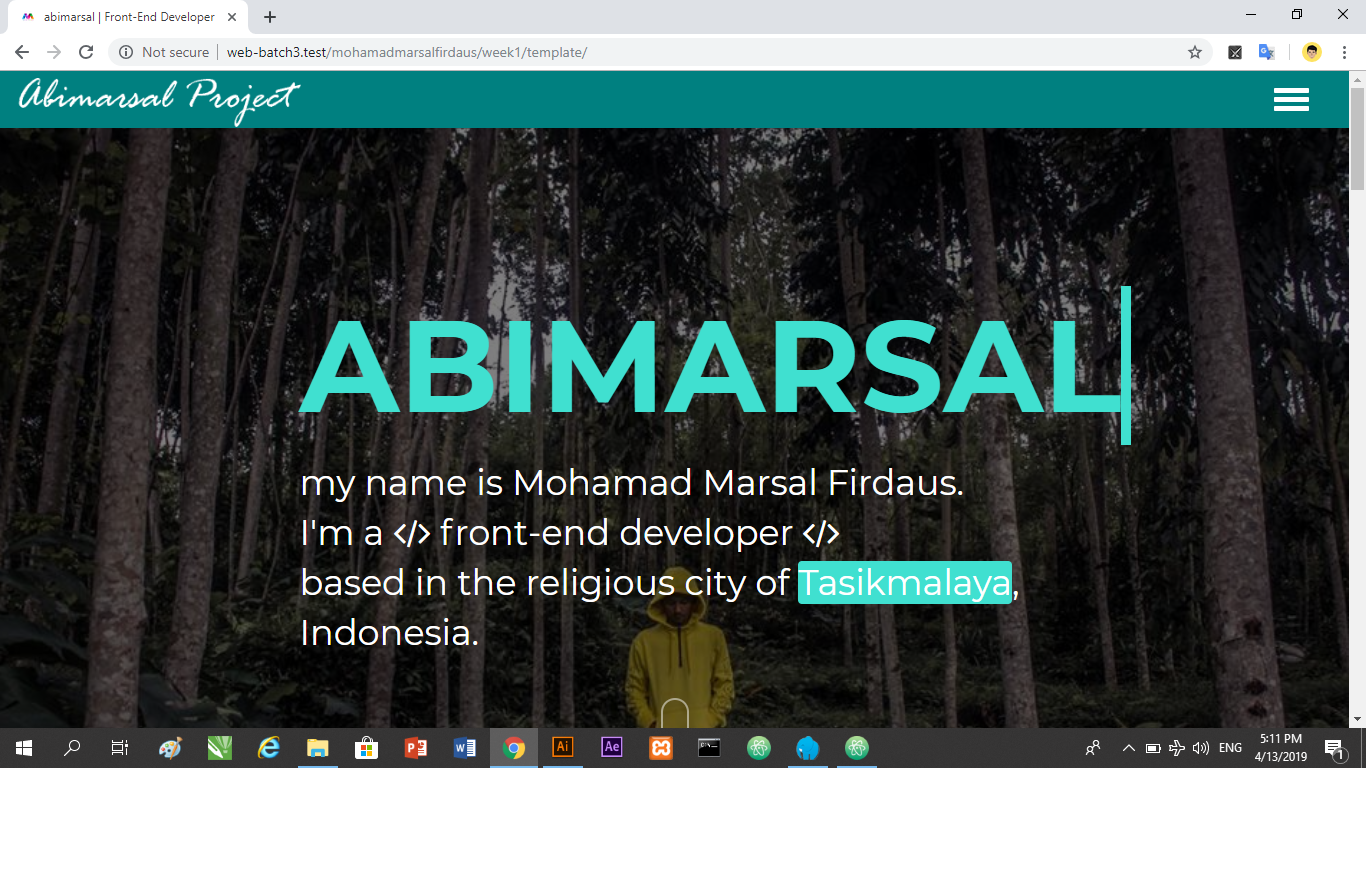
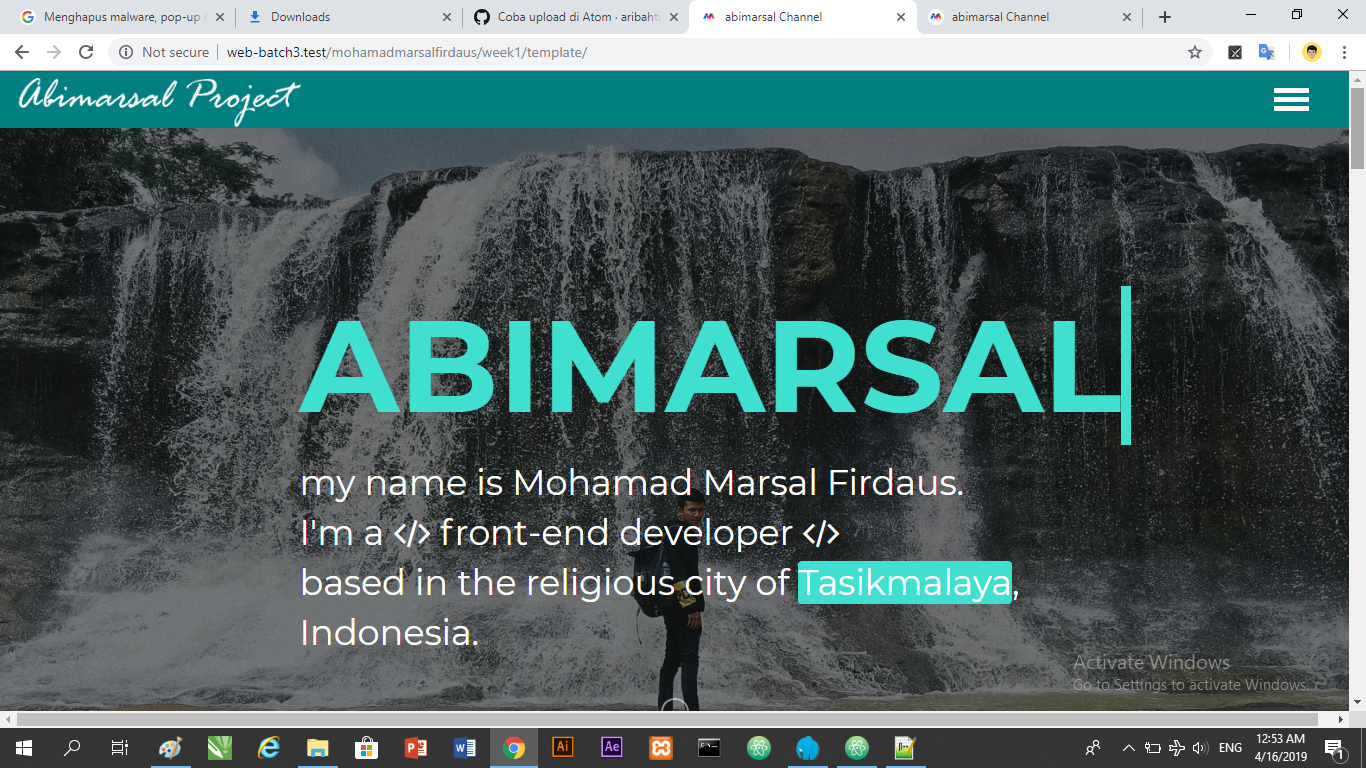
revisi lagi

diff --git a/mohamadmarsalfirdaus/week1/template/index.html b/mohamadmarsalfirdaus/week1/template/index.html
@@ -219,24 +219,11 @@
 								<div class="timeline-experience">
 									<span class="timeline-circle"></span>
 									<div class="timeline-experience-img"><img src="img/smpmutas.png"
-											alt="Páginas Amarelas"></div>
+											alt="SMP MUHAMMADIYAH"></div>
 									<div class="timeline-experience-info clear-after">
 										<h5>SMP Muhammadiyah 1</h5>
 									<div class="timeline-role">Leader of Organization</div>
 									<p>August 2010 - January 2013</p>
-									</div>
-									<!-- experience-info -->
-								</div>
-								<!-- experience -->
-								<time datetime="2013">2013</time>
-								<div class="timeline-experience">
-									<span class="timeline-circle"></span>
-									<div class="timeline-experience-img"><img src="http://marinamarques.pt/img/paginas_amarelas.png"
-											alt="Páginas Amarelas"></div>
-									<div class="timeline-experience-info clear-after">
-										<h5>Páginas Amarelas</h5>
-										<div class="timeline-role">Jr. Web Developer & Content Producer</div>
-										<p>February 2013 - March 2014</p>
 									</div>
 									<!-- experience-info -->
 								</div>
@@ -268,29 +255,9 @@
 							<div class="textbox-portfolio">
 								<div class="button-weblink">
 									<a href="https://abimarsal.com/webproduct" target="_blank"><span class="fa fa-link portfolio-link" aria-hidden="true"></span></a>
-=======
-			<!-- end container experience -->
-		</section>
-		<!-- end work experience -->
-		<!-- start work portfolio -->
-		<section id="portfolio">
-			<div class="container-fluid portfolio-ct">
-				<h2>PORTFOLIO</h2>
-				<div class="row">
-					<!-- start first portfolio item -->
-					<div class="col-sm-6 col-md-4 grid-portfolio">
-						<div class="portfolio-item-ct">
-							<div class="thumbnail">
-								<img src="https://marinamarques.pt/img/work-personalWebsite.png" alt="Portfolio - IBV MEXICO"
-									class="img-responsive">
-								<div class="textbox-portfolio">
-									<div class="button-weblink">
-										<a href="https://ibv-mx.bnpparibas.com/" alt="Portfolio - IBV MEXICO" target="_blank"><span
-												class="fa fa-link portfolio-link" aria-hidden="true"></span></a>
-									</div>
->>>>>>> cd8e54822a5c32c3e4dd8ddea33ee6028f73310d
 								</div>
-							</div>
+						</div>
+					</div>
 							<div class="caption portfolio-details">
 								<h3>IBV MEXICO</h3>
 								<p>Responsive website done for BNP Paribas CIB using Wordpress.
@@ -304,8 +271,6 @@
 							</div>
 						</div>
 					</div>
-<<<<<<< HEAD
-				</div>
 				<!-- end first portfolio item -->
 				<!-- start second portfolio item -->
 				<div class="col-sm-6 col-md-4 grid-portfolio">
@@ -315,21 +280,10 @@
 							<div class="textbox-portfolio">
 								<div class="button-weblink">
 									<a href="https://abimarsal.com/simplewebsite" target="_blank" alt="Portfolio - ARE YOU FEELING LOW?"><span class="fa fa-link portfolio-link" aria-hidden="true"></span></a>
-=======
-					<!-- end first portfolio item -->
-					<!-- start second portfolio item -->
-					<div class="col-sm-6 col-md-4 grid-portfolio">
-						<div class="portfolio-item-ct">
-							<div class="thumbnail">
-								<img src="http://marinamarques.pt/img/work-areyoufeelinglow.png" alt="Portfolio - ARE YOU FEELING LOW?"
-									class="img-responsive">
-								<div class="textbox-portfolio">
-									<div class="button-weblink">
 										<a href="https://shvvffle.github.io/areyoufeelinglow/" target="_blank"
 											alt="Portfolio - ARE YOU FEELING LOW?"><span class="fa fa-link portfolio-link"
 												aria-hidden="true"></span></a>
 									</div>
->>>>>>> cd8e54822a5c32c3e4dd8ddea33ee6028f73310d
 								</div>
 							</div>
 							<div class="caption portfolio-details">
@@ -346,8 +300,6 @@
 							</div>
 						</div>
 					</div>
-<<<<<<< HEAD
-				</div>
 				<!-- end second portfolio item -->
 				<!-- start third portfolio item -->
 				<div class="col-sm-6 col-md-4 grid-portfolio">
@@ -356,21 +308,8 @@
 							<img src="img/webpersonal.png" alt="Portfolio - PERSONAL WEBSITE" class="img-responsive">
 							<div class="textbox-portfolio">
 								<div class="button-weblink">
-									<a href="#" alt="Portfolio - PERSONAL WEBSITE"><span class="fa fa-link portfolio-link" aria-hidden="true"></span></a>
-=======
-					<!-- end second portfolio item -->
-					<!-- start third portfolio item -->
-					<div class="col-sm-6 col-md-4 grid-portfolio">
-						<div class="portfolio-item-ct">
-							<div class="thumbnail">
-								<img src="http://marinamarques.pt/img/work-personalWebsite.png" alt="Portfolio - PERSONAL WEBSITE"
-									class="img-responsive">
-								<div class="textbox-portfolio">
-									<div class="button-weblink">
-										<a href="#" alt="Portfolio - PERSONAL WEBSITE"><span class="fa fa-link portfolio-link"
-												aria-hidden="true"></span></a>
+									<a href="https://abimarsal.com/simplewebsite" alt="Portfolio - PERSONAL WEBSITE"><span class="fa fa-link portfolio-link" aria-hidden="true"></span></a>
 									</div>
->>>>>>> cd8e54822a5c32c3e4dd8ddea33ee6028f73310d
 								</div>
 							</div>
 							<div class="caption portfolio-details">
@@ -433,56 +372,53 @@
 	</section>
 	<!-- end services -->
 	<!-- start testimionals -->
-	<section id="testimionals">
-		<div class="testimionals-bg">
-			<div class="container testimionals-bg-opacity">
-				<h2>TESTIMONIALS</h2>
-				<div><span class="fa fa-quote-left quotes" aria-hidden="true"></span>
-				</div>
-				<div id="slider-testimionals" class="carousel slide" data-ride="carousel">
-					<!-- indicators dot nav -->
-					<ol class="carousel-indicators">
-						<li data-target="#slider-testimionals" data-slide-to="0" class="active"></li>
-						<li data-target="#slider-testimionals" data-slide-to="1"></li>
-						<li data-target="#slider-testimionals" data-slide-to="2"></li>
-						<li data-target="#slider-testimionals" data-slide-to="3"></li>
-					</ol>
-					<!-- wrapper for slides -->
-					<div class="carousel-inner" role="listbox">
-						<!-- start first testimional -->
-						<div class="item active">
-							<div class="row">
-								<div class="col-md-6 col-md-offset-3">
-									<div class="carousel-caption">
-										<p>Abimarsal is always ready to accomplish the impossible in record time.</p>
-										<p class="client">Putut, Manager - Nusa Karya Prima</p>
-										</div>
-									</div>
-								</div>
-							</div>
-						</div>
-					<!-- end first testimional -->
-					<!-- start second testimional -->
-					<div class="item">
-						<div class="row">
-							<div class="col-md-6 col-md-offset-3">
-								<div class="carousel-caption">
-									<p>He's the fastest person in YuCoding! Quick as lightning with all solutions.</p>
-									<p class="client">Winda, CEO - Nusa Karya Prima</p>
-										</div>
-									</div>
-								</div>
-							</div>
-						</div>
+		<section id="testimionals">
+			<div class="testimionals-bg">
+				<div class="container testimionals-bg-opacity">
+					<h2>TESTIMONIALS</h2>
+					<div><span class="fa fa-quote-left quotes" aria-hidden="true"></span>
 					</div>
-						<!-- end third testimional -->
-						<!-- start fourth and last testimional -->
-						<div class="item">
-							<div class="row">
-								<div class="col-md-6 col-md-offset-3">
-									<div class="carousel-caption">
-										<p>He doesn't give up until she finds a solution for what seems to be impossible.</p>
-										<p class="client">Sukarjo, CEO - Nusa Karya Prima</p>
+					<div id="slider-testimionals" class="carousel slide" data-ride="carousel">
+						<!-- indicators dot nav -->
+						<ol class="carousel-indicators">
+							<li data-target="#slider-testimionals" data-slide-to="0" class="active"></li>
+							<li data-target="#slider-testimionals" data-slide-to="1"></li>
+							<li data-target="#slider-testimionals" data-slide-to="2"></li>
+							<li data-target="#slider-testimionals" data-slide-to="3"></li>
+						</ol>
+						<!-- wrapper for slides -->
+						<div class="carousel-inner" role="listbox">
+							<!-- start first testimional -->
+							<div class="item active">
+								<div class="row">
+									<div class="col-md-6 col-md-offset-3">
+										<div class="carousel-caption">
+											<p>Abimarsal is always ready to accomplish the impossible in record time.</p>
+											<p class="client">Putut, Manager - Nusa Karya Prima</p>
+										</div>
+									</div>
+								</div>
+							</div>
+							<!-- end first testimional -->
+							<!-- start second testimional -->
+							<div class="item">
+								<div class="row">
+									<div class="col-md-6 col-md-offset-3">
+										<div class="carousel-caption">
+											<p>He's the fastest person in YuCoding! Quick as lightning with all solutions.</p>
+											<p class="client">Winda, CEO - Nusa Karya Prima</p>
+										</div>
+									</div>
+								</div>
+							</div>
+							<!-- end second testimional -->
+							<!-- start third testimional -->
+							<div class="item">
+								<div class="row">
+									<div class="col-md-6 col-md-offset-3">
+										<div class="carousel-caption">
+											<p>He shows real commitment and demonstrates entrepreneurship skills as well as innovation abilities.</p>
+											<p class="client">Gillian, Manager - BNP Paribas</p>
 										</div>
 									</div>
 								</div>
@@ -493,7 +429,7 @@
 								<div class="row">
 									<div class="col-md-6 col-md-offset-3">
 										<div class="carousel-caption">
-											<p>She doesn't give up until she finds a solution for what seems to be impossible.</p>
+											<p>He doesn't give up until she finds a solution for what seems to be impossible.</p>
 											<p class="client">Ana, Manager - Páginas Amarelas</p>
 										</div>
 									</div>
@@ -506,10 +442,9 @@
 					<!-- end slider bootstrap -->
 				</div>
 			</div>
-		</div>
-	<!-- end div container testimionals -->
-</section>
-<!-- end testimionals -->
+			<!-- end div container testimionals -->
+		</section>
+		<!-- end testimionals -->
 <!-- start footer -->
 <footer id="contact">
 	<div class="container">

diff --git a/mohamadmarsalfirdaus/week1/template/css/style.css b/mohamadmarsalfirdaus/week1/template/css/style.css
@@ -110,11 +110,7 @@ h5 {
 	position: absolute;
 	left: 50%;
 	top: 50%;
-<<<<<<< HEAD
-	background-image: url(https://marinamarques.pt/img/preloader.gif);
-=======
-	background-image: url(../img/curug.jpg);
->>>>>>> cd8e54822a5c32c3e4dd8ddea33ee6028f73310d
+	background-image: url(img/me.jpg);
 	background-repeat: no-repeat;
 	background-position: center;
 	margin: -100px 0 0 -100px;
@@ -877,8 +873,6 @@ div.button-weblink {
 /*/ end services /*/
 
 
-/*/ start testimionals /*/
-
 #testimionals {
 	margin-top: 20px;
 	width: 100%;
@@ -897,15 +891,15 @@ div.button-weblink {
 .testimionals-bg {
 	width: 100%;
 	height: auto;
-	background: url(http://marinamarques.pt/img/mm_testimionals.jpg) no-repeat top center scroll;
+	background: url(https://scontent-sin2-2.xx.fbcdn.net/v/t1.0-9/57227788_2789009824472733_7468396787087179776_n.jpg?_nc_cat=107&_nc_ht=scontent-sin2-2.xx&oh=0734459bffdc66e2718767cc0f5d7403&oe=5D4570C9) no-repeat top center scroll;
 	background-size: cover;
 	-o-background-size: cover;
 }
 
 .testimionals-bg-opacity {
-	width: 100%;
-	height: auto;
-	background: rgba(0, 0, 0, 0.5);
+    width: 100%;
+    height: auto;
+    background: rgba(0, 0, 0, 0.5);
 }
 
 .quotes {
